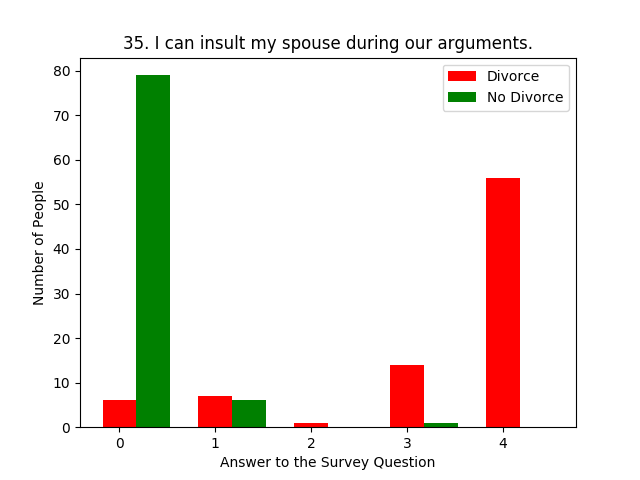
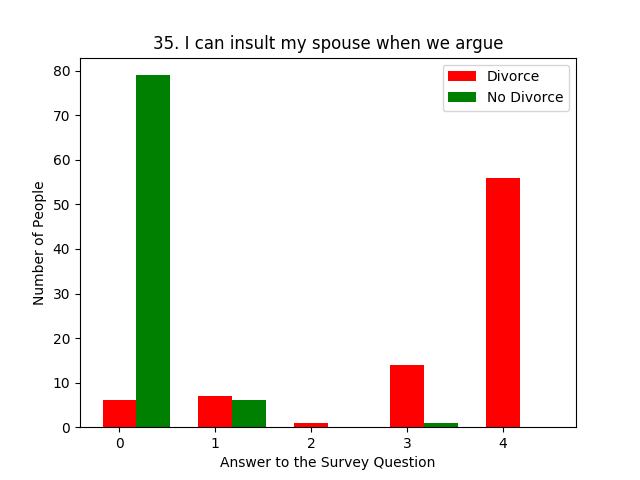
Updated figure titles

Changed region(s): [[0.1875, 0.0625, 0.8125, 0.125]]

diff --git a/questionanalysis.py b/questionanalysis.py
@@ -33,7 +33,7 @@ question_40_n = count(q_40_n)
 # Good
 plt.bar(index, question_35_y, bar_width, color="r", label = "Divorced")
 plt.bar(index + bar_width, question_35_n, bar_width, color="g", label = "Not Divorced")
-plt.title("35. I can insult my spouse during our arguments.")
+plt.title("35. I can insult my spouse when we argue")
 plt.xlabel("Answer to the Survey Question")
 plt.ylabel("Number of People")
 plt.legend(["Divorce","No Divorce"])
@@ -42,7 +42,7 @@ plt.figure()
 
 plt.bar(index, question_36_y, bar_width, color="r", label = "Divorced")
 plt.bar(index + bar_width, question_36_n, bar_width, color="g", label = "Not Divorced")
-plt.title("36. I can be humiliating when we argue.")
+plt.title("36. I can humiliate my spouse when we argue")
 plt.xlabel("Answer to the Survey Question")
 plt.ylabel("Number of People")
 plt.legend(["Divorce","No Divorce"])
@@ -51,7 +51,7 @@ plt.figure()
 
 plt.bar(index, question_40_y, bar_width, color="r", label = "Divorced")
 plt.bar(index+ bar_width, question_40_n, bar_width, color="g", label = "Not Divorced")
-plt.title("40. We're just starting an argument before I know what's going on.")
+plt.title("40. I start to argue with my spouse before I know what’s going on")
 plt.xlabel("Answer to the Survey Question")
 plt.ylabel("Number of People")
 plt.legend(["Divorce","No Divorce"])

diff --git a/visualizesvm.py b/visualizesvm.py
@@ -3,14 +3,21 @@ from sklearn.decomposition import PCA
 import numpy as np
 from matplotlib import pyplot as plt
 import pickle
+import os
 
-clf = pickle.load(open("svmweb.p", 'rb'))
-
-divorce = np.loadtxt("divorce.csv", delimiter=";", skiprows=1)
+divorce = np.loadtxt("datathon-2020/divorce.csv", delimiter=";", skiprows=1)
+clf = pickle.load(open("datathon-2020/svmweb.p", 'rb'))
 ydivorce = divorce[:,-1] == 1
 ndivorce = divorce[:,-1] == 0
 pca = PCA(1)
 div_trans = pca.fit_transform(divorce[:,0:-1])
 
-plt.scatter(div_trans[ydivorce,0],0,c="r")
-plt.scatter(div_trans[ndivorce,0],0,c="g")
+plt.scatter(div_trans[ydivorce,0],np.zeros(div_trans[ydivorce,0].shape),c="r")
+plt.scatter(div_trans[ndivorce,0],np.zeros(div_trans[ndivorce,0].shape),c="g")
+
+
+print(clf.decision_function(np.arange(-15,15,.1).reshape(-1, 1)))
+
+
+
+plt.show()
